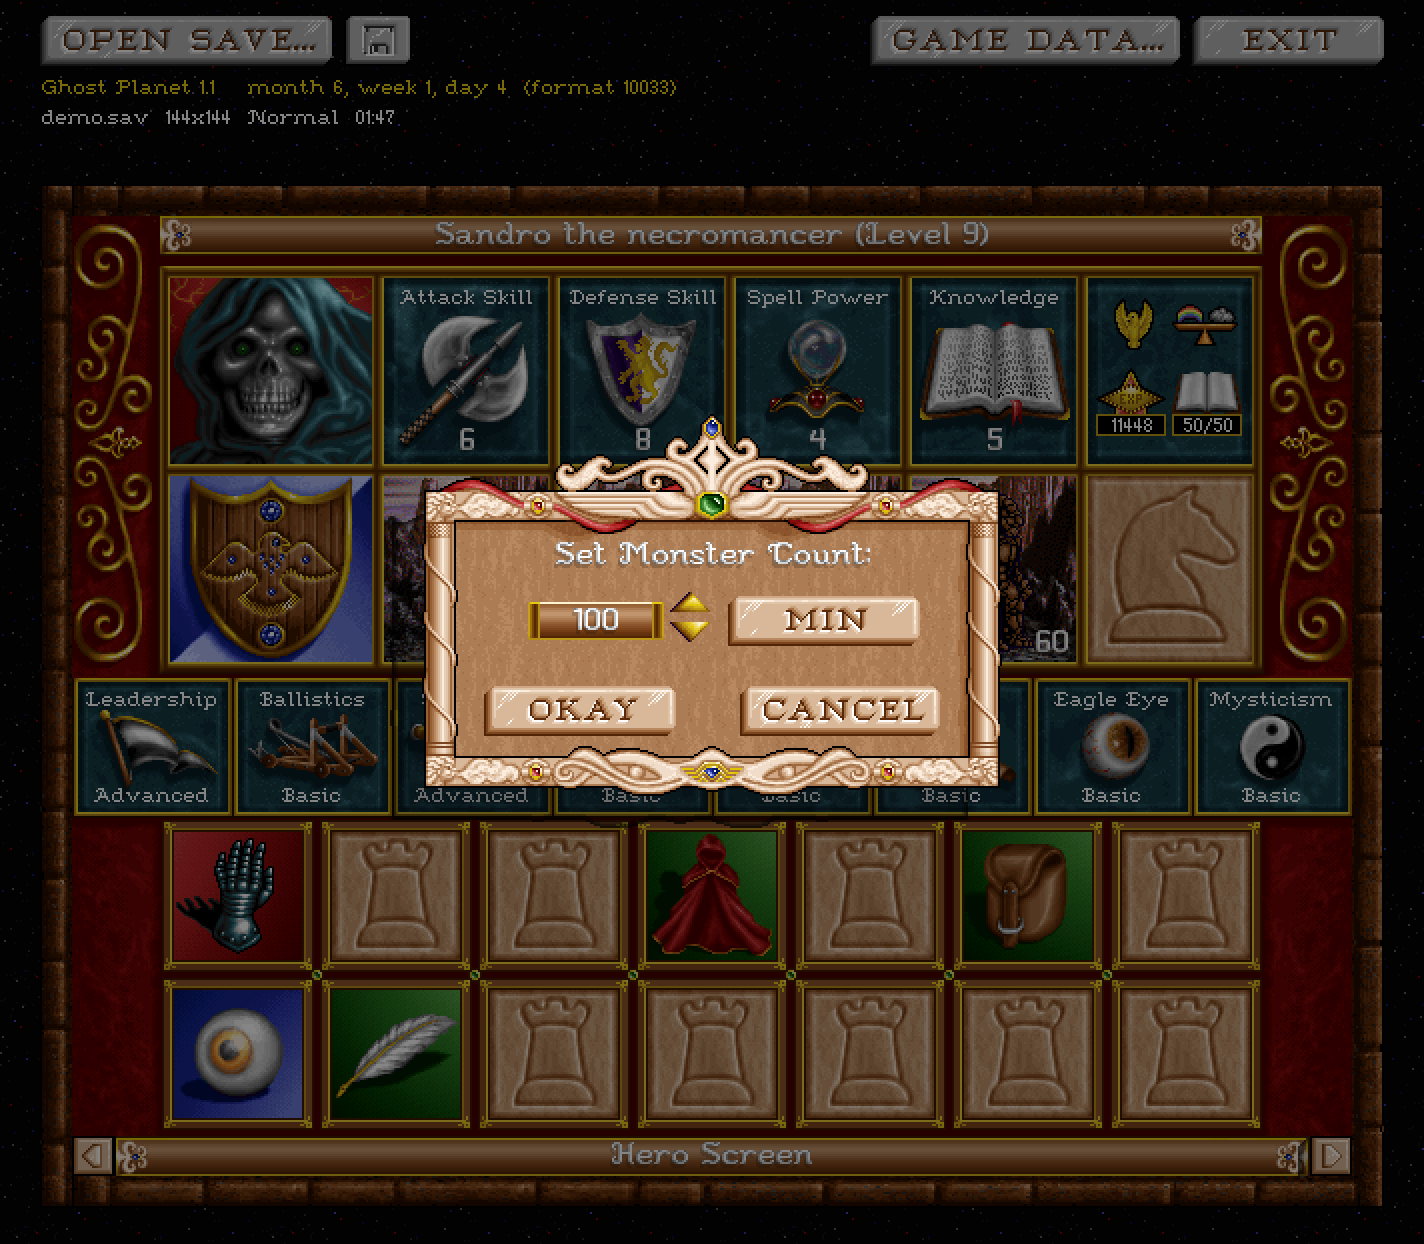
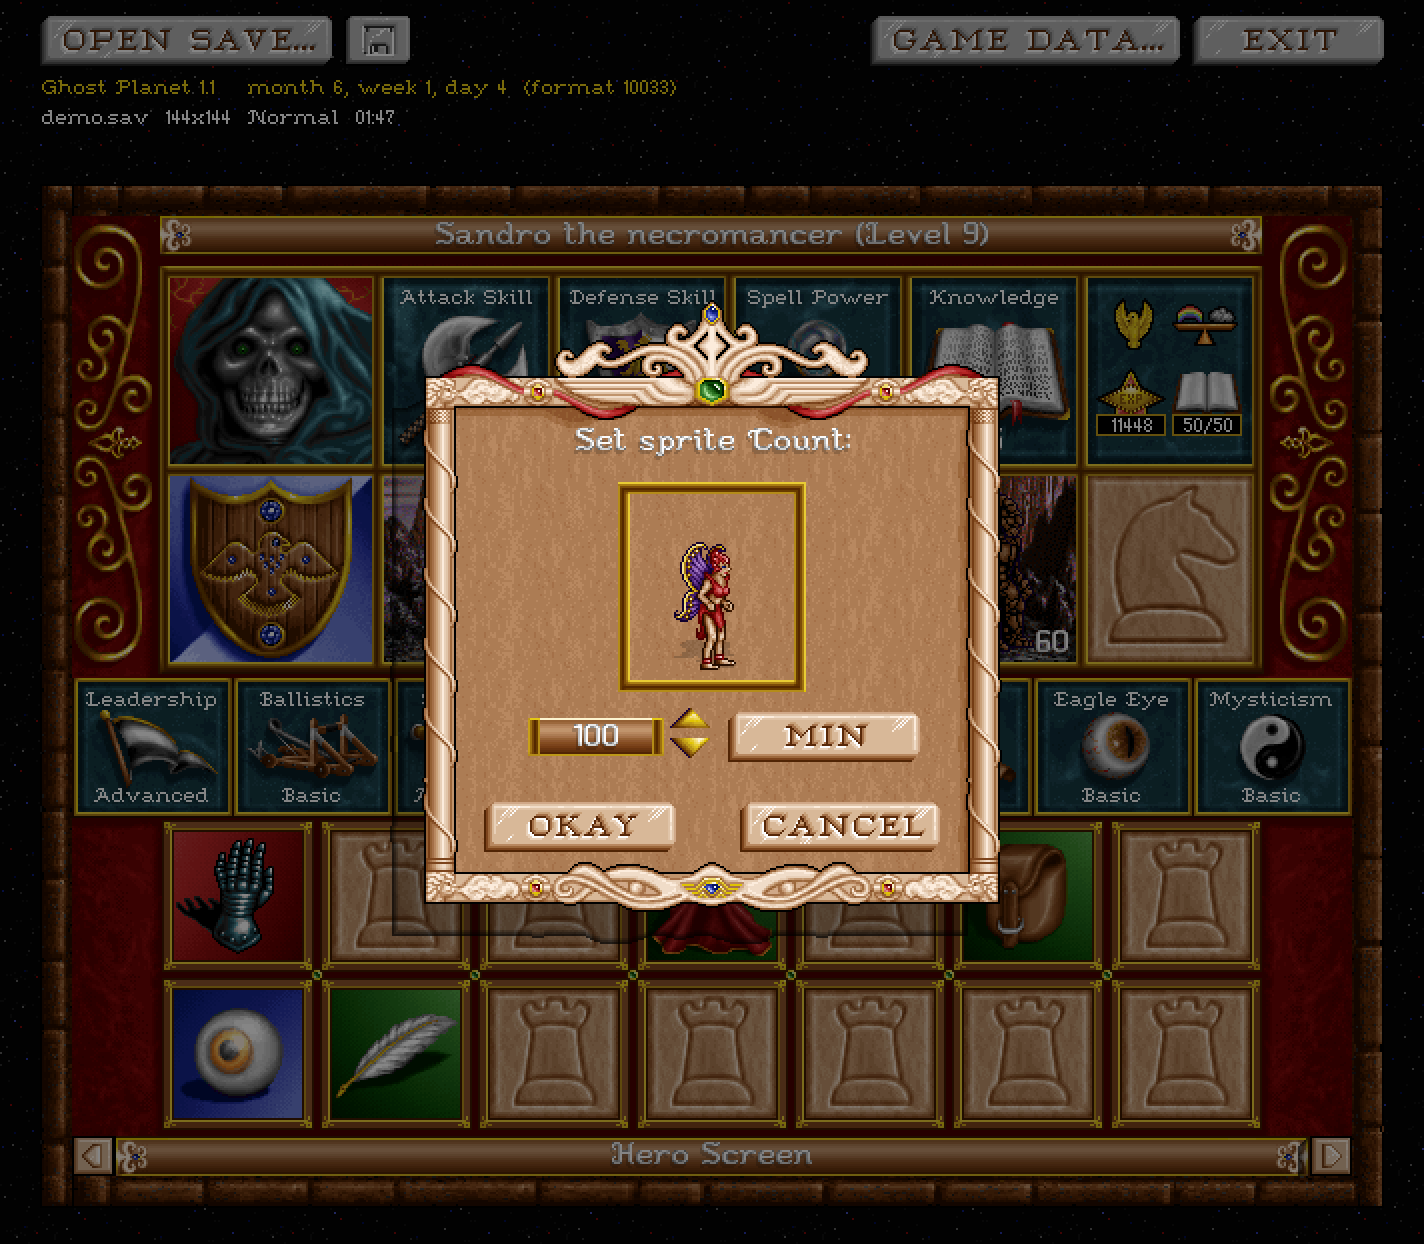
Screenshots: show a Sprite in the count dialog debug shot
FH2_DEBUG_DIALOG=count used to open a bare number selector without
the monster plate; now it opens the count dialog with a Sprite
(like the monstercount/ghostcount debug dialogs).

Changed region(s): [[0.2781, 0.2444, 0.7107, 0.7637], [0.309, 0.5193, 0.3399, 0.5498]]

diff --git a/src/mainwindow.cpp b/src/mainwindow.cpp
@@ -527,7 +527,11 @@ bool MainWindow::openDebugDialog( const QString & name )
     }
     if ( name == QLatin1String( "count" ) ) {
         int value = 100;
-        selectCountDialog( this, *_assets, QStringLiteral( "Set Monster Count:" ), 1, 500000, value, 1 );
+        SelectCountElement element;
+        element.kind = SelectCountElement::MONSTER;
+        element.id = 21; // Sprite
+        selectCountDialog( this, *_assets, replaceName( gameText( "Set %{monster} Count:" ), "%{monster}", QString::fromStdString( monsterName( 21 ) ) ), 1,
+                           500000, value, 1, element );
         return true;
     }
     if ( name == QLatin1String( "message" ) ) {
